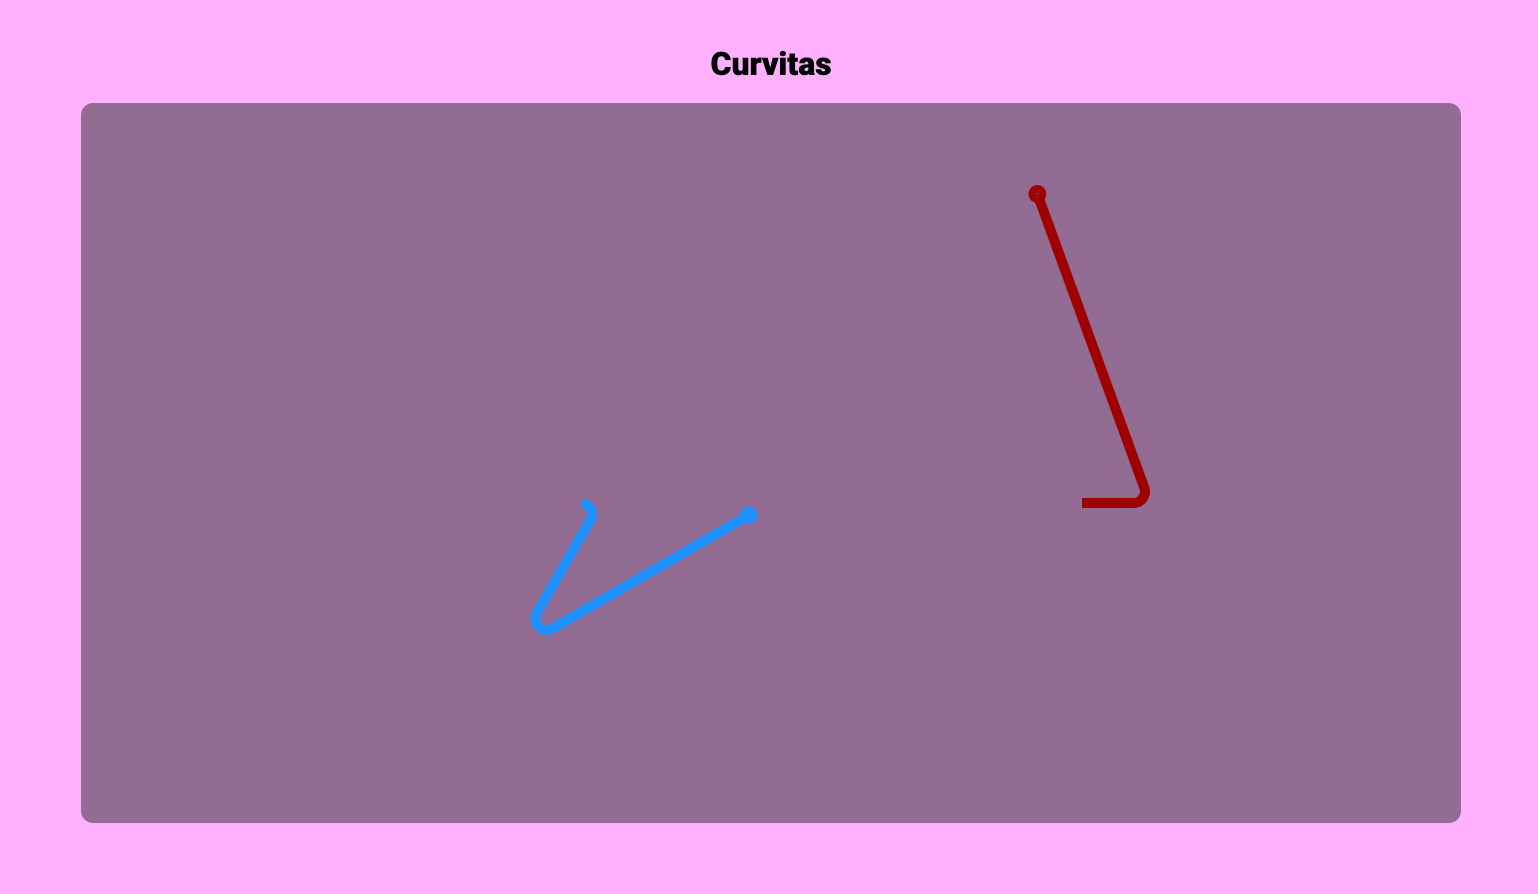
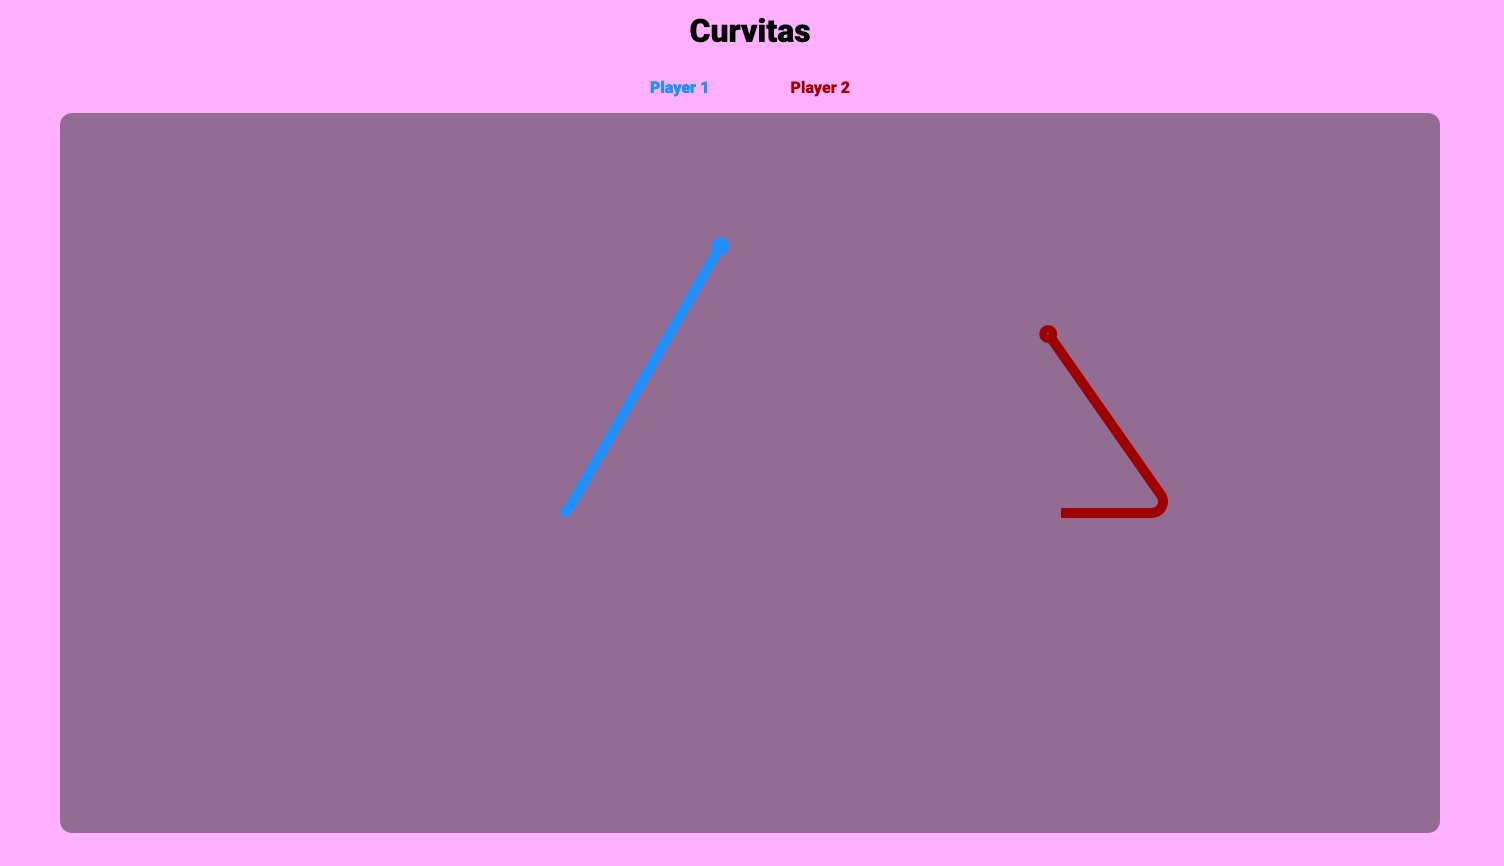
add players name

diff --git a/index.html b/index.html
@@ -9,6 +9,10 @@
 <body>
   <div class="app">
     <strong class="game-title">Curvitas</strong>
+    <div class="players">
+      <p class="player-one">Player 1</p>
+      <p class="player-two">Player 2</p>
+    </div>
     <canvas id="canvas" />
     <script type="text/javascript" src="dist/main.js"></script>
   </div>
@@ -27,7 +31,25 @@
   .game-title {
     font-family: 'Roboto';
     font-size: 2rem;
-    margin-bottom: 20px;
+    margin-bottom: 12px;
+  }
+
+  .players {
+    display: flex;
+    width: 200px;
+    flex-direction: row;
+    justify-content: space-between;
+  }
+
+  .player-one{
+    font-family: 'Roboto';
+    font-size: 1rem;
+    color: #1e90ff;
+  }
+  .player-two{
+    font-family: 'Roboto';
+    font-size: 1rem;
+    color: #9f0000;
   }
 
   .app {
